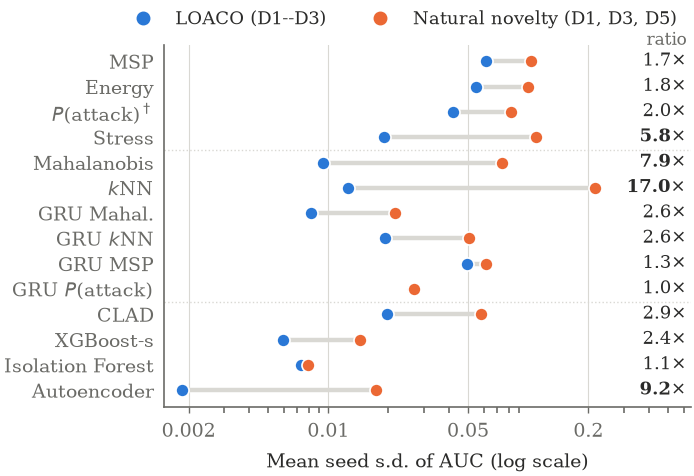
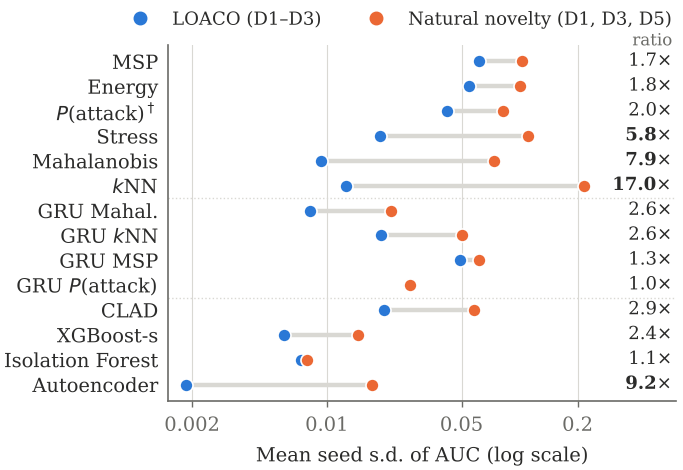
Fig. 4: notebook version; separators now split AHSD | GRU | other detectors
Claude-Session: https://claude.ai/code/session_01LmdWFNgatKQB5uMLcpPZvX

diff --git a/paper/hone_user/fig4_seedsd_notebook.py b/paper/hone_user/fig4_seedsd_notebook.py
@@ -1,0 +1,64 @@
+%matplotlib inline
+# HoNE Fig. 4 - seed variability under LOACO vs natural novelty (dumbbell plot, data embedded).
+# Value = mean over attack classes of the standard deviation of AUC across the 5 seeds.
+# LOACO pools D1-D3; natural novelty pools D1, D3, D5. Source: per-run results in results/final_v2.
+from pathlib import Path
+import matplotlib.pyplot as plt
+from matplotlib.lines import Line2D
+
+# (detector, seed s.d. under LOACO, seed s.d. under natural novelty)
+ROWS = [
+    ("MSP", 0.061328, 0.103010),
+    ("Energy", 0.054902, 0.100012),
+    ("$P$(attack)$^\\dagger$", 0.041906, 0.082294),
+    ("Stress", 0.018927, 0.110020),
+    ("Mahalanobis", 0.009356, 0.073890),
+    ("$k$NN", 0.012609, 0.214969),
+    ("GRU Mahal.", 0.008164, 0.021591),
+    ("GRU $k$NN", 0.019107, 0.050538),
+    ("GRU MSP", 0.049327, 0.061690),
+    ("GRU $P$(attack)", 0.026544, 0.026883),
+    ("CLAD", 0.019751, 0.057821),
+    ("XGBoost-s", 0.005962, 0.014463),
+    ("Isolation Forest", 0.007320, 0.007883),
+    ("Autoencoder", 0.001863, 0.017229),
+]
+OUT = Path.home() / "Downloads"
+LO_C, NN_C = "#2a78d6", "#eb6834"
+INK, MUTED, GRID = "#2b2b2a", "#6b6b67", "#d9d8d3"
+
+plt.rcParams.update({"font.family": "serif", "font.size": 7, "axes.linewidth": 0.6, "axes.edgecolor": MUTED,
+                     "xtick.color": MUTED, "ytick.color": INK, "axes.labelcolor": INK, "text.color": INK,
+                     "xtick.major.width": 0.5, "xtick.major.size": 2})
+
+fig, ax = plt.subplots(figsize=(3.4, 2.35))
+n = len(ROWS)
+for i, (lab, lo, nn) in enumerate(ROWS):
+    y = n - 1 - i
+    ax.plot([lo, nn], [y, y], color=GRID, lw=1.6, zorder=1, solid_capstyle="round")
+    ax.scatter([lo], [y], s=22, color=LO_C, zorder=3, edgecolor="white", linewidth=0.6)
+    ax.scatter([nn], [y], s=22, color=NN_C, zorder=3, edgecolor="white", linewidth=0.6)
+    ax.text(0.62, y, f"{nn / lo:.1f}$\\times$", va="center", ha="right", fontsize=6.5,
+            fontweight="bold" if nn / lo >= 5 else "normal")      # bold: at least 5x more variable
+ax.set_yticks(range(n), [lab for lab, _, _ in ROWS][::-1])
+ax.set_xscale("log")
+ax.set_xlim(0.0015, 0.65)
+ax.set_xticks([0.002, 0.01, 0.05, 0.2], ["0.002", "0.01", "0.05", "0.2"])
+ax.minorticks_off()
+ax.set_xlabel("Mean seed s.d. of AUC (log scale)")
+ax.text(0.62, n - 0.35, "ratio", ha="right", fontsize=6, color=MUTED)
+for yy in (3.5, 7.5):                     # separates AHSD scores, GRU scores, and the rest
+    ax.axhline(yy, color=GRID, lw=0.5, ls=":")
+for s in ("top", "right"):
+    ax.spines[s].set_visible(False)
+ax.grid(axis="x", color=GRID, lw=0.4)
+ax.set_axisbelow(True)
+ax.tick_params(axis="y", length=0)
+h = [Line2D([], [], marker="o", ls="", ms=4, color=LO_C, label="LOACO (D1\u2013D3)"),
+     Line2D([], [], marker="o", ls="", ms=4, color=NN_C, label="Natural novelty (D1, D3, D5)")]
+ax.legend(handles=h, ncol=2, loc="lower center", bbox_to_anchor=(0.45, 1.0), frameon=False, fontsize=6.5)
+fig.tight_layout(pad=0.2)
+fig.savefig(OUT / "fig_seedsd.pdf", bbox_inches="tight", pad_inches=0.02)
+fig.savefig(OUT / "fig_seedsd.png", dpi=200, bbox_inches="tight", pad_inches=0.02)
+print("saved", OUT / "fig_seedsd.pdf")
+plt.show()

diff --git a/paper/hone_user/figs_tables.py b/paper/hone_user/figs_tables.py
@@ -207,7 +207,7 @@ def fig_seedsd():
     ax.set_xticks([0.002, 0.01, 0.05, 0.2], ["0.002", "0.01", "0.05", "0.2"])
     ax.set_xlabel("Mean seed s.d. of AUC (log scale)")
     ax.text(0.62, n - 0.35, "ratio", ha="right", fontsize=6, color=MUTED)
-    for yy in (3.5, 9.5):
+    for yy in (3.5, 7.5):  # AHSD scores | GRU scores | other detectors
         ax.axhline(yy, color=GRID, lw=0.5, ls=":")
     clean(ax, "x")
     ax.tick_params(axis="y", length=0)
